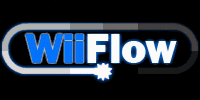
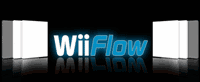
-using wait animation of spayrosam now (happy everyone?)

diff --git a/source/gui/video.cpp b/source/gui/video.cpp
@@ -493,7 +493,6 @@ void CVideo::_showWaitMessages(CVideo *m)
 	u32 frames = m->m_waitMessageDelay * 50;
 	u32 waitFrames = frames;
 
-	u8 fadeStep = 2 * (u32) (255.f / (waitFrames * m->m_waitMessages.size()));
 	s8 fadeDirection = 1;
 	s8 PNGfadeDirection = 1;
 	s16 currentLightLevel = 0;
@@ -509,7 +508,7 @@ void CVideo::_showWaitMessages(CVideo *m)
 	gprintf("Wait Message Thread: Start\nDelay: %d, Images: %d\n", waitFrames, m->m_waitMessages.size());
 	while(m->m_showWaitMessage)
 	{
-		currentLightLevel += (fadeStep * fadeDirection);
+		currentLightLevel += fadeDirection * 5;
 		if(currentLightLevel >= 255) 
 		{
 			currentLightLevel = 255;
@@ -526,8 +525,8 @@ void CVideo::_showWaitMessages(CVideo *m)
 		{
 			m->waitMessage(*waitItr);
 			waitItr += PNGfadeDirection;
-			if(waitItr == m->m_waitMessages.end())
-				waitItr = m->m_waitMessages.begin();
+			if(waitItr + 1 == m->m_waitMessages.end() || waitItr == m->m_waitMessages.begin())
+				PNGfadeDirection *= (-1);
 			waitFrames = frames;
 		}
 		else
@@ -578,7 +577,7 @@ void CVideo::waitMessage(const vector<STexture> &tex, float delay)
 	if(tex.size() == 0)
 	{
 		m_waitMessages = m_defaultWaitMessages;
-		m_waitMessageDelay = 0.1f;
+		m_waitMessageDelay = 0.15f;
 	}
 	else
 	{

diff --git a/source/main.cpp b/source/main.cpp
@@ -38,7 +38,7 @@ int main(int argc, char **argv)
 	vid.init();
 
 	MEM2_init(47); //Should be safe to use
-	vid.waitMessage(0.1f);
+	vid.waitMessage(0.15f);
 
 	AllocSDGeckoBuffer();
 	gprintf(" \nWelcome to %s (%s-r%s)!\nThis is the debug output.\n", APP_NAME, APP_VERSION, SVN_REV);
